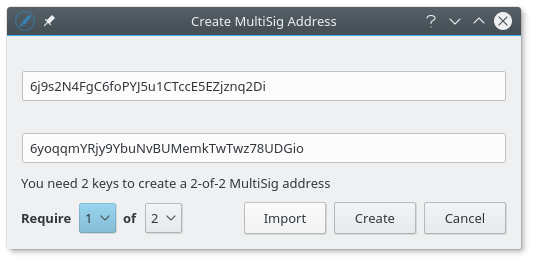
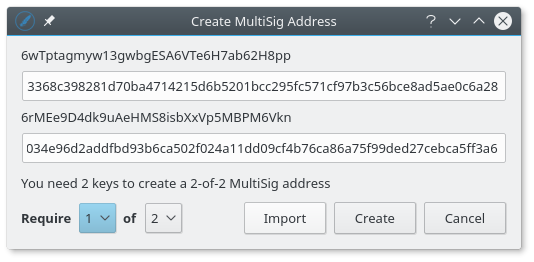
Updates to example of one of two MultiSignature Addres

diff --git a/README.md b/README.md
@@ -596,21 +596,22 @@ Click on Wallet menu item to create your address and extract if from the receive
 
 ![MultiSig Dialog](/images/ftc-0.9.3.2-Wallet.Send.MultiSig.dropdown.01.png) 
 
-Click on Wallet Send and click on the MultiSig button.
-
-
-
-
-![MultiSig Dialog](/images/ftc-0.9.3.2-Wallet.Send.MultiSig.01.png) 
+Click on Wallet Send and click on the MultiSig button. Input the public key from your wallet addrss and the public from the other wallet involved in the Multi-Signature.
 
 
 Press create to make the MultiSig address. 
 
-A .msa file is created which is sent to the other parties in the transaction. 
+![MultiSig Dialog](/images/ftc-0.9.3.2-Wallet.Send.MultiSig.01.png) 
+
 
 If there is a problem you will get a warning message  
 
 ![MultiSig Warning](/images/ftc-0.9.3.2-Wallet.Send.MultiSig.warning.02.png)
+
+
+If there no problems found then the newly created Multisig address can be found on "Addresses". A .msa file is created which is sent to the other parties in the transaction. 
+
+Exporting this MultiSig address to your partner involves sending the .msa file, to your partner.
 
 
 
